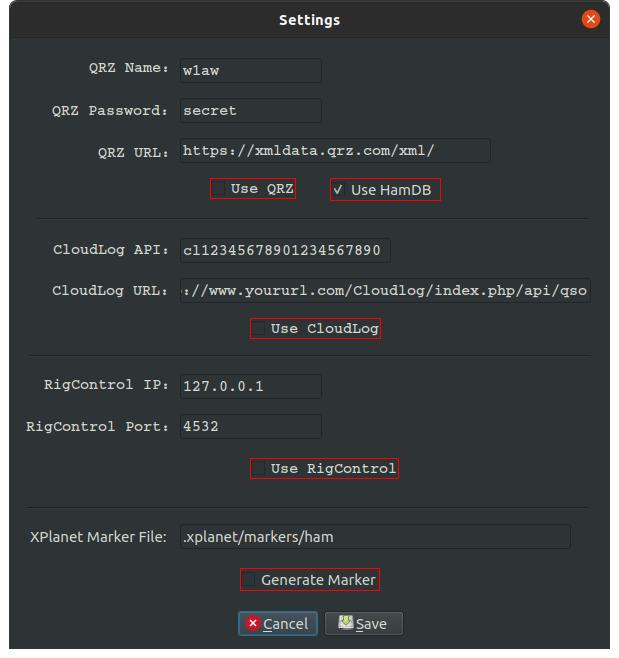
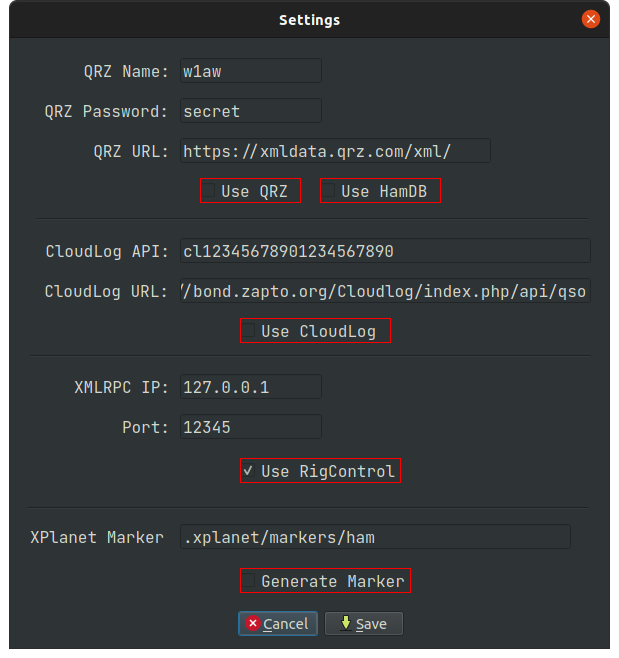
Doc: Updated setting pic and readme.me

diff --git a/README.md b/README.md
@@ -69,11 +69,11 @@ Okay you've made a contact. Enter the call in the call field. As you type it in,
 
 # Features
 
-## Radio Polling via rigctld
+## Radio Polling via flrig
 
-If you run rigctld on a computer connected to the radio, it can be polled for band/mode updates automatically. Click the gear icon at the bottom of the screen to set the IP and port for rigctld. There is a radio icon at the bottom of the logging window to indicate polling status.
+If you run flrig on a computer connected to the radio, it can be polled for band/mode updates automatically. Click the gear icon at the bottom of the screen to set the IP and port for flrig. There is a radio icon at the bottom of the logging window to indicate polling status.
 
-![Alt text](https://github.com/mbridak/FieldDayLogger/raw/main/pics/loggerSettingsDialog.png)
+![Alt text](pics/loggerSettingsDialog.png)
 
 ## Cloudlog, QRZ, HamDB useage
 
